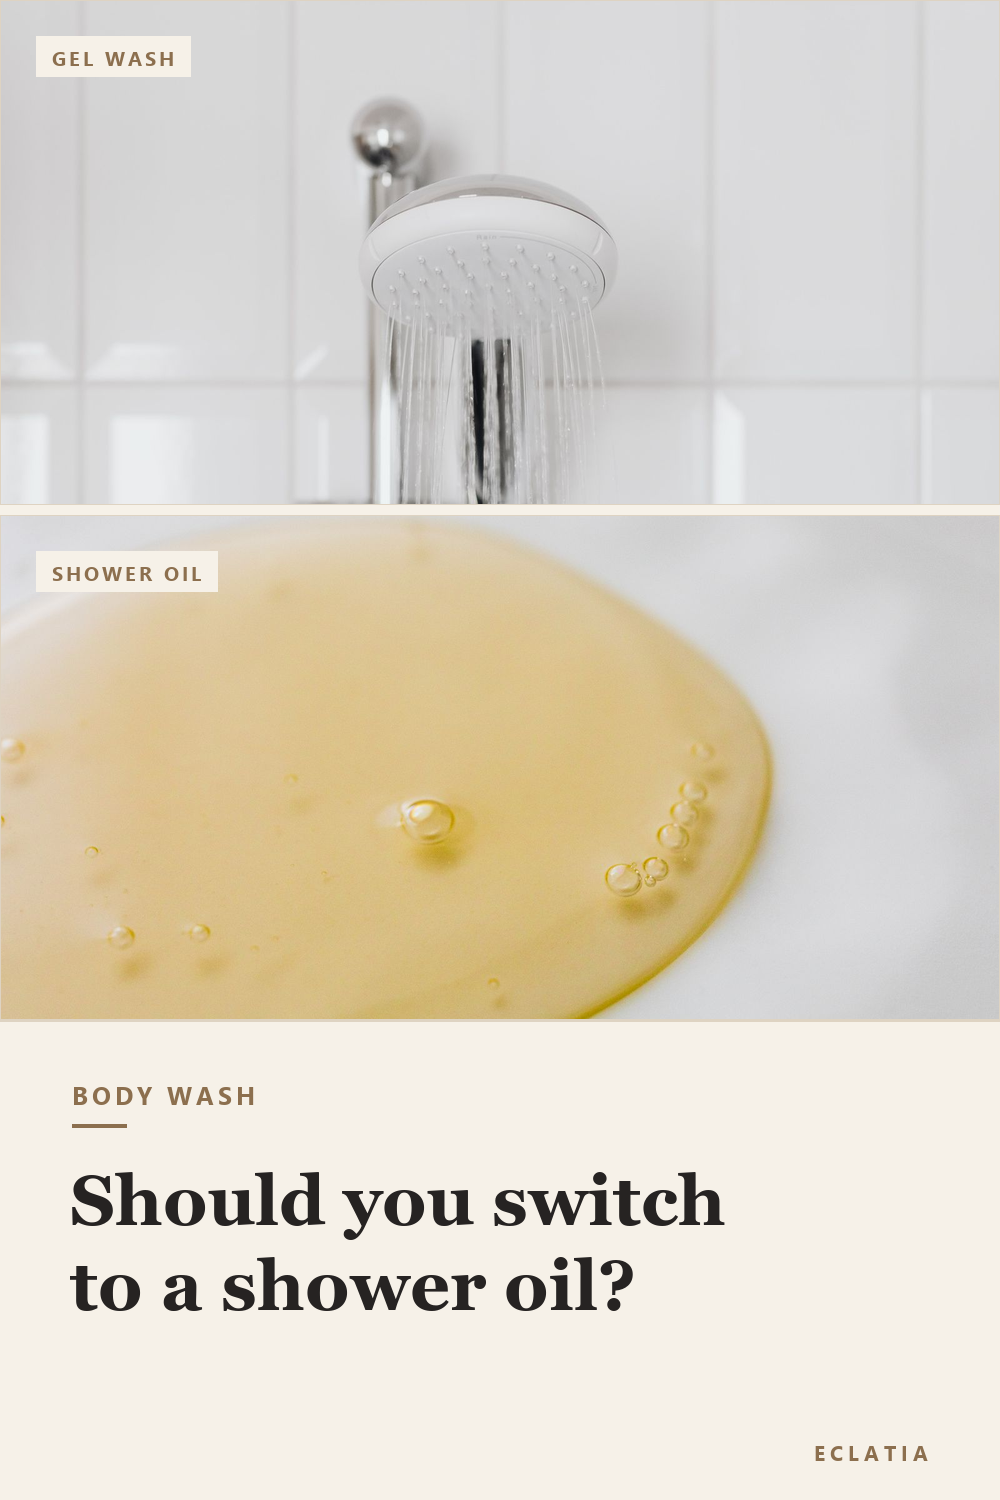
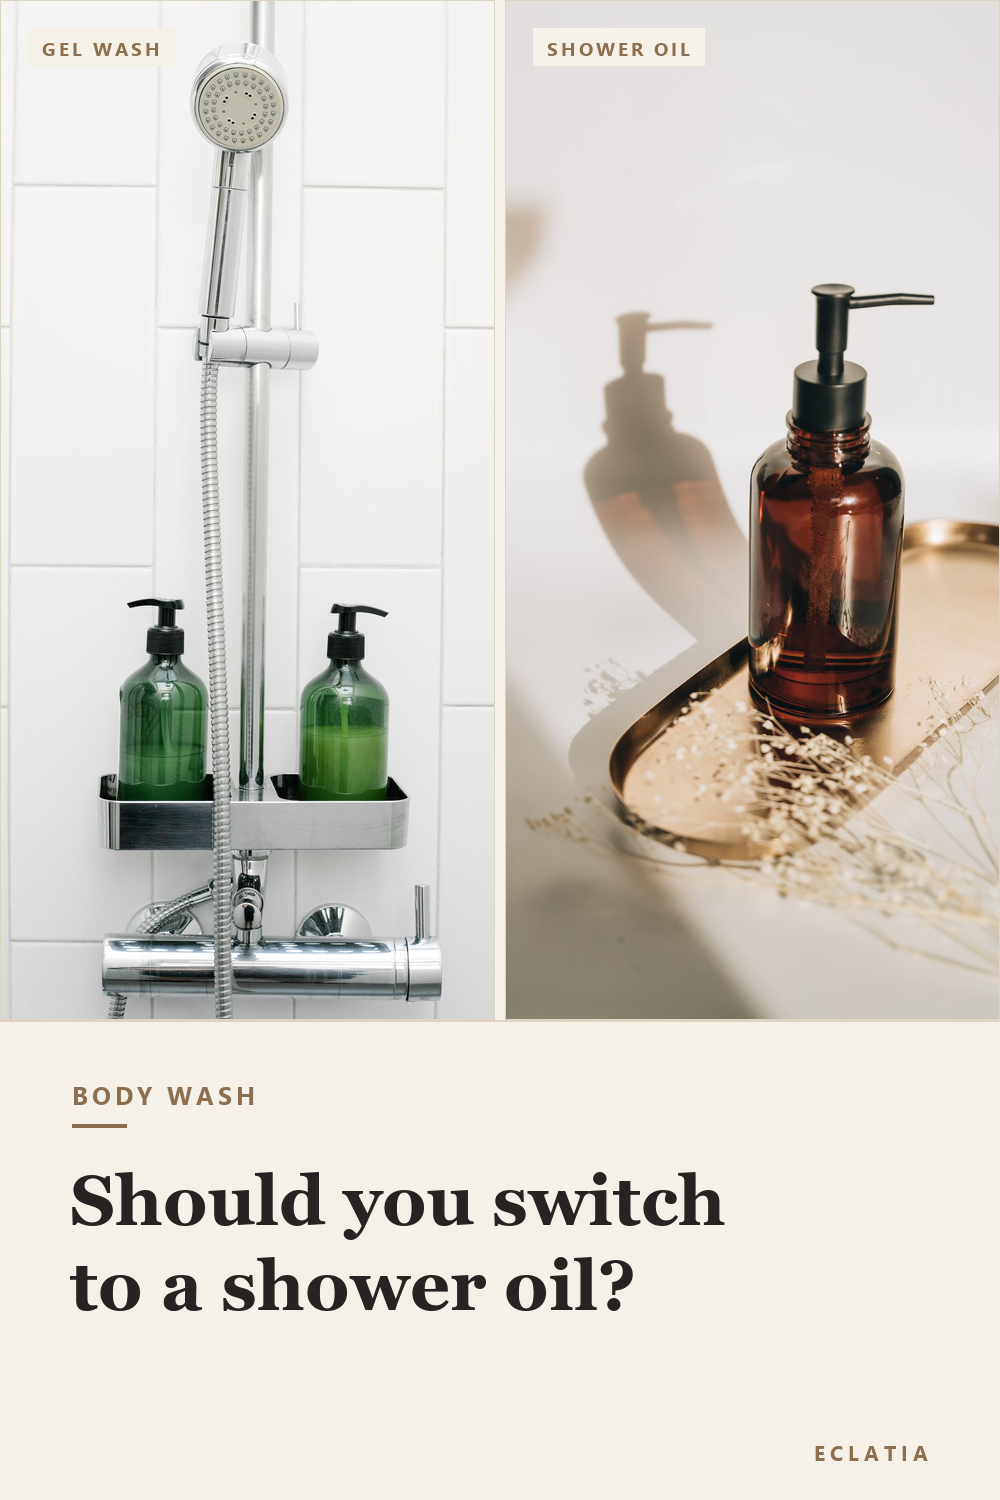
P07 v3: diptyque vertical avec les deux produits (gel + huile), sans marque

diff --git a/scripts/make_pins_p07.py b/scripts/make_pins_p07.py
@@ -1,11 +1,16 @@
-"""Compose le pin P07 (v2) : diptyque eau / huile + bandeau texte.
+"""Compose le pin P07 (v3) : diptyque vertical gel douche / huile de douche.
 
-Pourquoi un diptyque : le pin compare un gel douche classique a une huile de
-douche. Deux photos empilees (eau qui coule / huile doree) rendent la
-comparaison lisible en une seconde, sans aucune marque visible.
+Chaque moitie montre un PRODUIT, pas seulement un decor :
+- gauche : deux flacons pompe dans la douche, carrelage blanc (gel douche)
+- droite : flacon ambre pompe sur plateau dore (huile de douche)
 
-Entree  : visuels/body-oil/base-P07-water.jpg  (Pexels 4194863, pommeau de douche)
-          visuels/body-oil/base-P07-oil.jpg    (Pexels 4465831, huile doree)
+Le diptyque vertical garde les flacons entiers (pas de recadrage Panoramique
+qui coupait les pompes) et se lit de gauche a droite comme la comparaison.
+
+Aucune marque lisible sur les deux photos (verre vert uni / verre ambre uni).
+
+Entree  : visuels/body-oil/base-P07-gel.jpg        (Pexels 7262767)
+          visuels/body-oil/base-P07-oilbottle.jpg  (Pexels 7796452)
 Sortie  : visuels/body-oil/pin-P07.jpg + pin-P07.png (1000 x 1500)
 """
 import os
@@ -17,14 +22,15 @@ from make_pins_body_oil import ACCENT, CREAM, H, INK, LINE, SEGOE_B, W, fit_font
 BASE = os.path.join("docs", "contenus-a-valider", "visuels", "body-oil")
 PANEL_H = 480
 GAP = 10
-BAND_H = 505  # 505 * 2 + 10 = 1020 -> hauteur photo totale
+PHOTO_H = 1020
+COL_W = (W - GAP) // 2  # 495
 
 KICKER = "BODY WASH"
 LINES = ["Should you switch", "to a shower oil?"]
 LABELS = [
-    # (fichier, libelle, decalage vertical du recadrage en fraction de la hauteur)
-    ("base-P07-water.jpg", "GEL WASH", 0.10),
-    ("base-P07-oil.jpg", "SHOWER OIL", 0.50),
+    # (fichier, libelle, x de gauche)
+    ("base-P07-gel.jpg", "GEL WASH", 0),
+    ("base-P07-oilbottle.jpg", "SHOWER OIL", COL_W + GAP),
 ]
 
 
@@ -40,21 +46,20 @@ def crop_fill(img, w, h, top_frac=0.5):
 def chip(d, xy, text, font):
     x, y = xy
     tw = sum(d.textlength(c, font=font) + 3 for c in text) - 3
-    pad_x, pad_y = 16, 10
+    pad_x, pad_y = 14, 9
     d.rectangle([x, y, x + tw + 2 * pad_x, y + font.size + 2 * pad_y], fill=CREAM)
     spaced(d, (x + pad_x, y + pad_y - 2), text, font, ACCENT, 3)
 
 
 def build():
     canvas = Image.new("RGB", (W, H), CREAM)
-    top = 0
-    for name, label, top_frac in LABELS:
-        photo = crop_fill(Image.open(os.path.join(BASE, name)).convert("RGB"), W, BAND_H, top_frac)
-        canvas.paste(photo, (0, top))
+    fchip = ImageFont.truetype(SEGOE_B, 19)
+    for name, label, x in LABELS:
+        photo = crop_fill(Image.open(os.path.join(BASE, name)).convert("RGB"), COL_W, PHOTO_H)
+        canvas.paste(photo, (x, 0))
         d = ImageDraw.Draw(canvas)
-        d.rectangle([0, top, W - 1, top + BAND_H - 1], outline=LINE, width=1)
-        chip(d, (36, top + 36), label, ImageFont.truetype(SEGOE_B, 20))
-        top += BAND_H + GAP
+        d.rectangle([x, 0, x + COL_W - 1, PHOTO_H - 1], outline=LINE, width=1)
+        chip(d, (x + 28, 28), label, fchip)
 
     # bandeau texte
     d = ImageDraw.Draw(canvas)

diff --git a/docs/contenus-a-valider/pins/P07-a-publier.md b/docs/contenus-a-valider/pins/P07-a-publier.md
@@ -15,7 +15,7 @@
 | **Lien** | `https://guide-beaute.pages.dev/comparisons/oil-body-wash-vs-body-wash/?utm_source=Pinterest&utm_medium=organic&utm_campaign=P07` |
 | **Tableau** | `Body Care & Dry Skin` |
 | **Tagged topics** | Body Care · Dry Skin · Beauty Tips · Skincare |
-| **Alt** | `A chrome shower head running against white tiles, above a close-up of a pool of golden shower oil.` |
+| **Alt** | `Two green pump bottles in a white tiled shower, next to an amber pump bottle on a gold tray.` |
 
 ---
 
@@ -34,16 +34,16 @@
 | Marque sur le visuel | ❌ aucun logo Amazon |
 | Page déjà pinnée | ❌ jamais |
 
-### Le visuel (v2, diptyque)
+### Le visuel (v3, diptyque vertical)
 
-Deux photos Pexels empilées, aucune marque visible, aucun produit identifiable :
+Deux photos Pexels côte à côte, **chacune montre un produit**, aucune marque visible :
 
-- haut — pommeau de douche, eau qui coule (Pexels 4194863) → légende « GEL WASH »
-- bas — macro d'huile dorée (Pexels 4465831) → légende « SHOWER OIL »
+- gauche — deux flacons pompe verts dans une douche carrelée (Pexels 7262767) → « GEL WASH »
+- droite — flacon pompe ambre posé sur un plateau doré (Pexels 7796452) → « SHOWER OIL »
 - bandeau bas inchangé : « BODY WASH / Should you switch to a shower oil? »
 
-Script : `scripts/make_pins_p07.py` (sources `base-P07-water.jpg`, `base-P07-oil.jpg`).
-L'ancienne version (flacon ambré sous la douche) est conservée en `base-P07.jpg` mais n'est plus utilisée.
+Script : `scripts/make_pins_p07.py` (sources `base-P07-gel.jpg`, `base-P07-oilbottle.jpg`).
+Versions précédentes conservées mais plus utilisées : `base-P07.jpg` (flacon ambré sous la douche).
 
 ---
 
